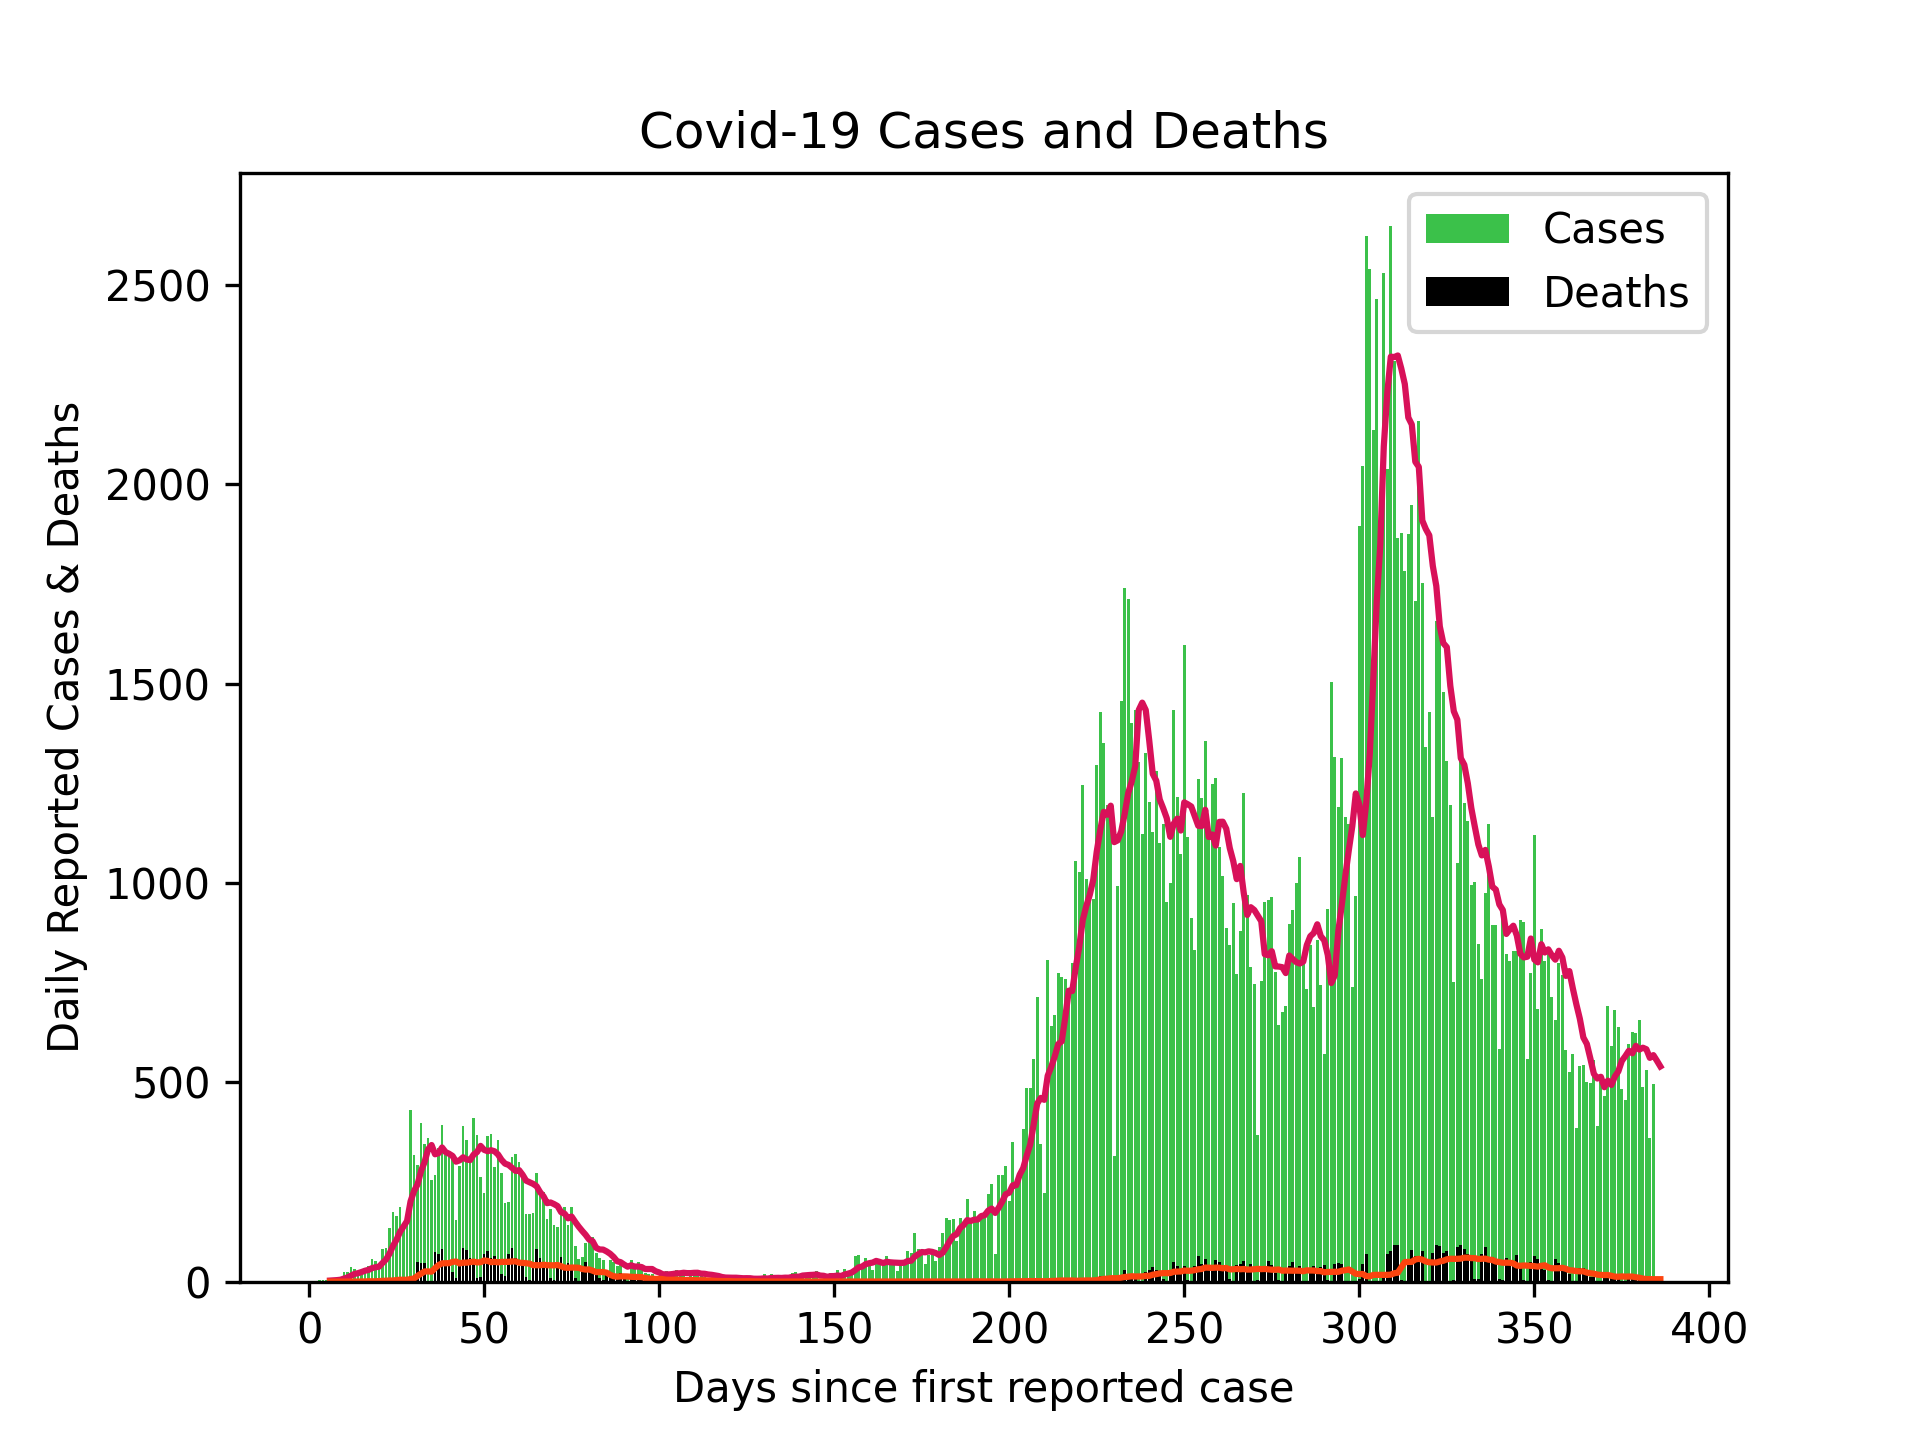
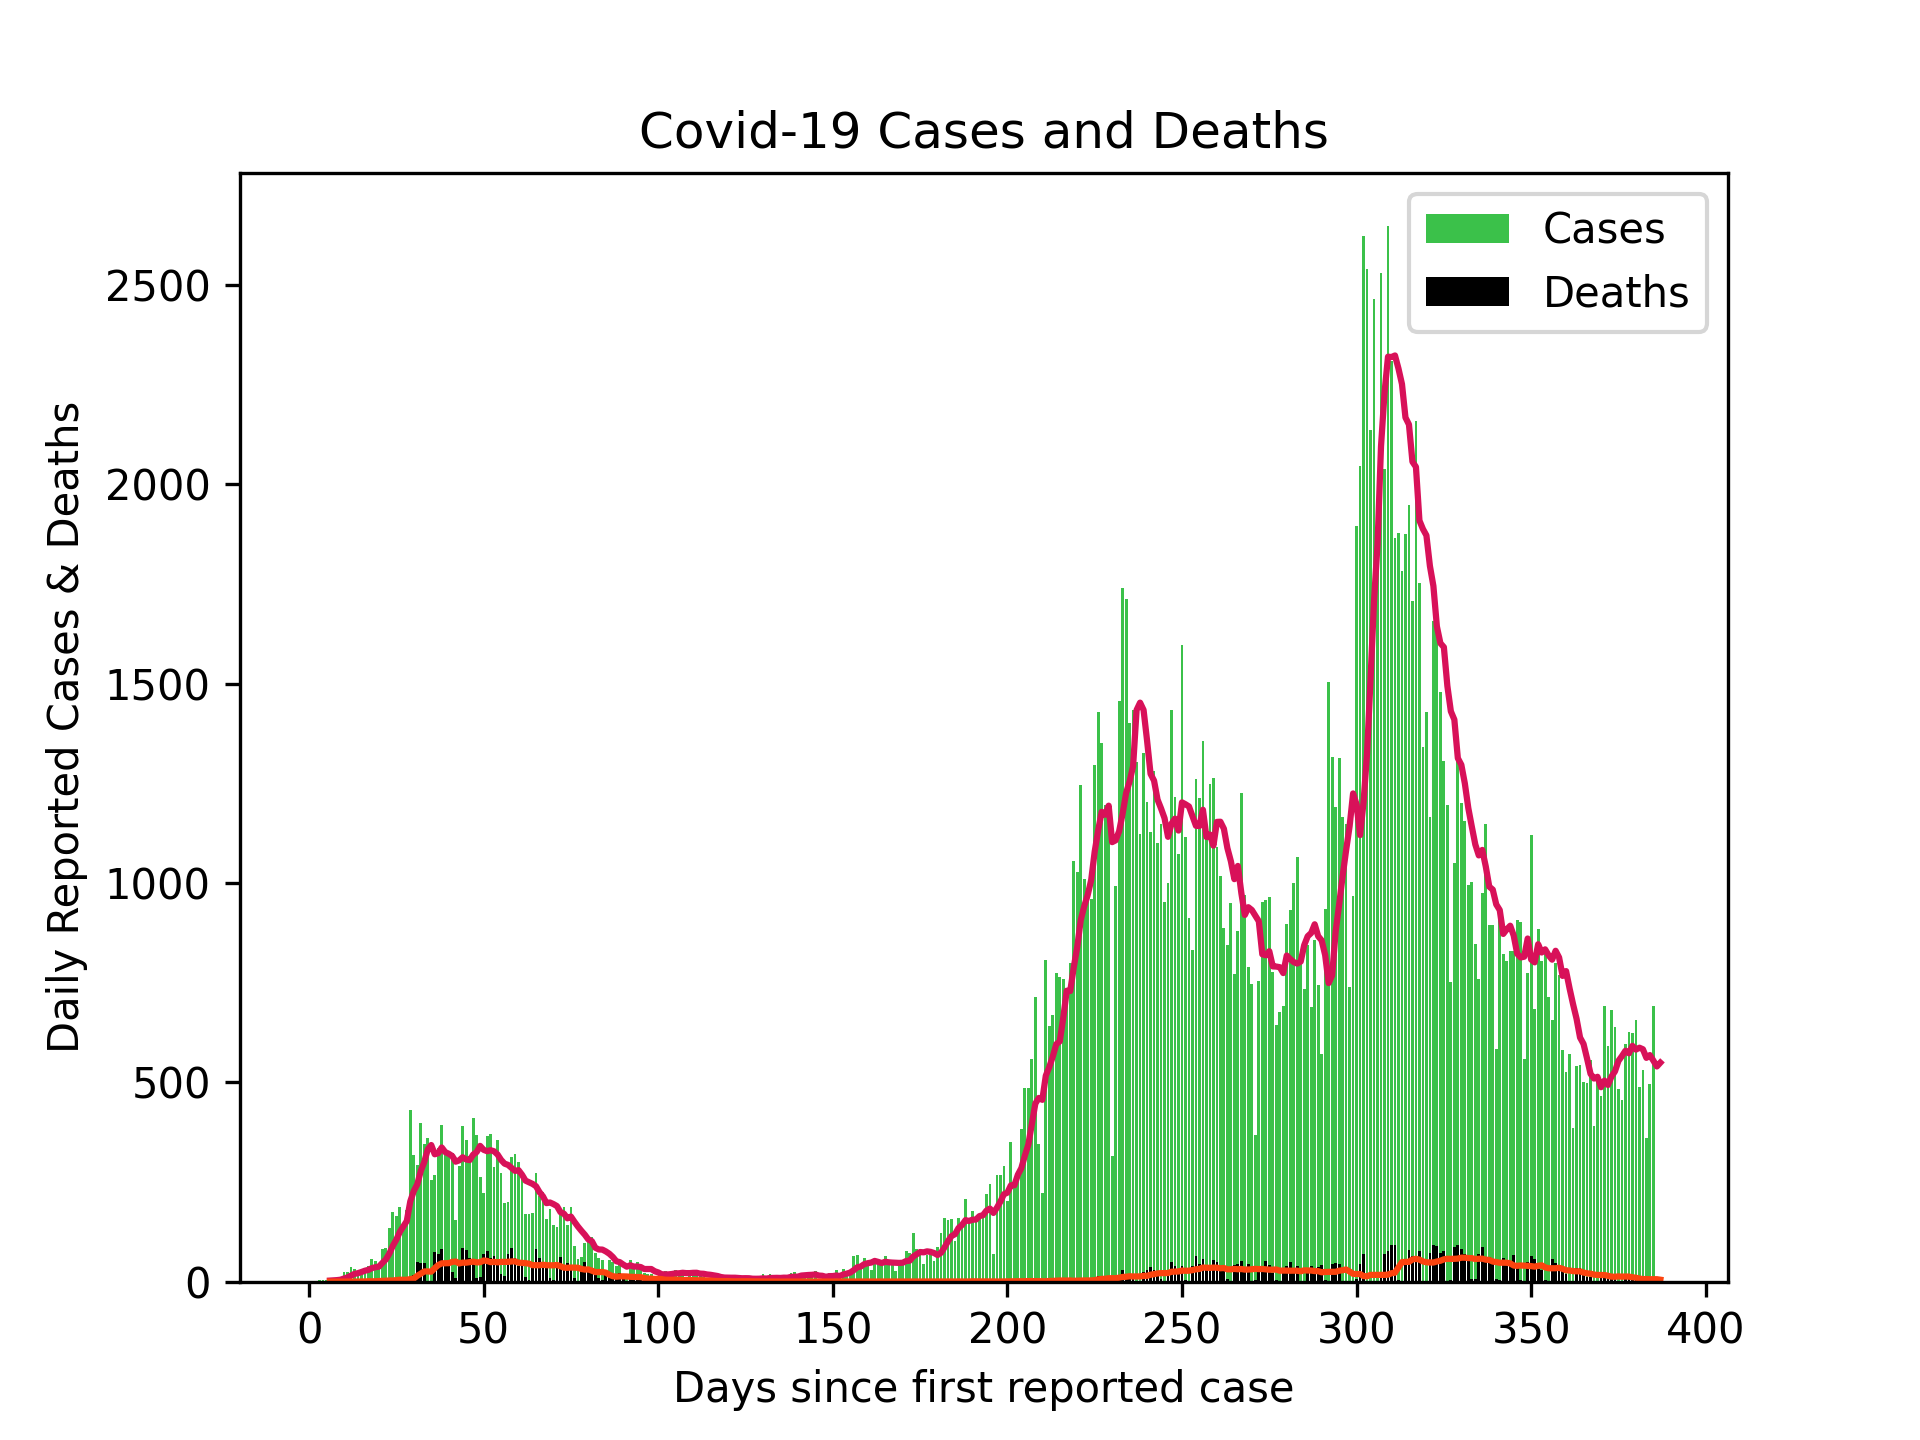
Updated Scottish cases 24/03/21

diff --git a/README.md b/README.md
@@ -1,4 +1,4 @@
-# Scottish Cases 23/03/21
+# Scottish Cases 24/03/21
 
 ![alt](scottish_cases.png)
 
